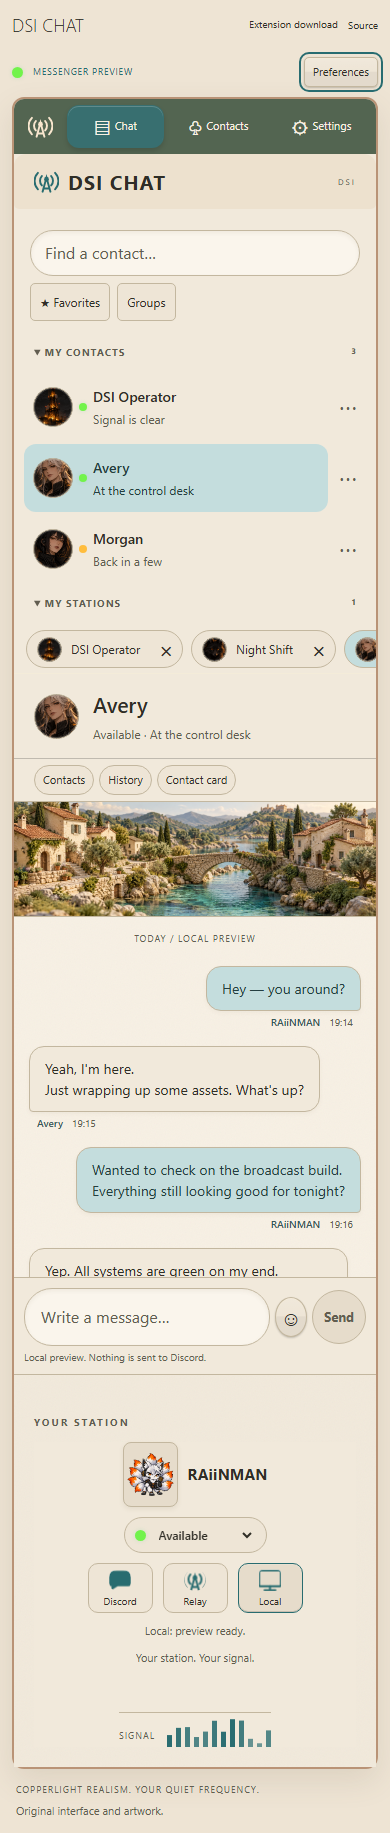
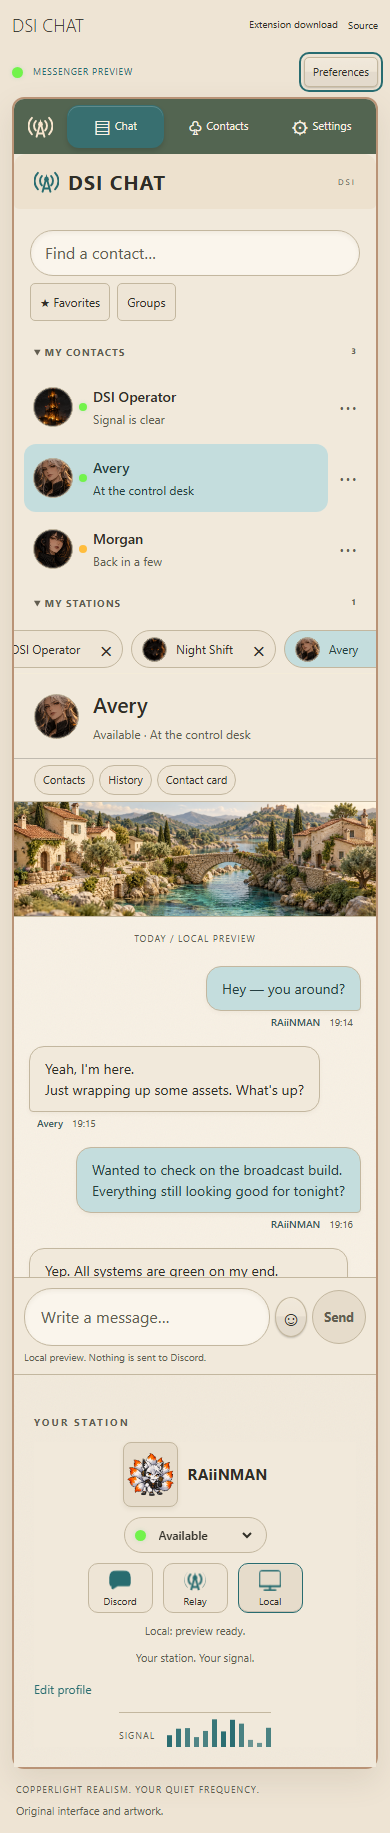
Keep active conversation visible when Copperlight workspace resizes

diff --git a/site/index.html b/site/index.html
@@ -3,7 +3,7 @@
 <body>
 <header class="desktop-bar"><a class="brand" href="./">DSI <b>CHAT</b></a><span>DEAD SIGNAL INTERACTIVE</span><nav><a href="downloads/dsi-chat-original-chromium.zip" download>Extension download</a><a href="https://github.com/raiinman/DSI-CHAT/tree/codex/dsi-original">Source</a></nav></header>
 <main class="desktop"><div class="workspace-note"><span class="orb on"></span> MESSENGER PREVIEW <span>Sample contacts. Messages stay in this tab.</span><button id="preferences-open" type="button">Preferences</button></div>
-<div class="windows"><nav class="workspace-rail" aria-label="Workspace navigation"><span class="station-mark" aria-hidden="true"></span><button id="nav-chat" type="button"><span aria-hidden="true">▤</span>Chat</button><button id="nav-contacts" type="button"><span aria-hidden="true">♧</span>Contacts</button><button id="nav-settings" type="button"><span aria-hidden="true">⚙</span>Settings</button><span class="rail-caption">YOUR<br>QUIET<br>FREQUENCY</span></nav>
+<div class="windows"><nav class="workspace-rail" aria-label="Workspace navigation"><span class="station-mark" aria-hidden="true"></span><button id="nav-chat" type="button"><span aria-hidden="true">▤</span>Chat</button><button id="nav-contacts" type="button"><span aria-hidden="true">♧</span>Contacts</button><button id="nav-settings" type="button"><span aria-hidden="true">⚙</span>Settings</button><span class="rail-caption">YOUR<br>QUIET<br>SIGNAL</span></nav>
 <section class="buddy-window window" aria-label="Contact list"><div class="titlebar"><span class="station-mark" aria-hidden="true"></span><h1>DSI CHAT</h1><small>DSI</small></div>
 <div class="buddy-tools"><label><span class="sr-only">Find a contact</span><input id="contact-search" type="search" placeholder="Find a contact…"></label><div class="contact-list-tools"><button id="favorites-only" type="button" aria-pressed="false">★ Favorites</button><button id="groups-open" type="button">Groups</button><span id="contact-results" role="status"></span></div></div>
 <div class="contact-scroll"><div id="contacts"></div><div id="empty-search" class="contact-empty" hidden><img src="assets/quiet-receiver.png" alt="" width="96" height="96"><strong id="empty-search-title"></strong><p id="empty-search-note"></p><button id="clear-contact-filters" type="button">Clear search and filters</button></div></div><p id="contact-book-status" class="sr-only" role="status"></p>

diff --git a/docs/STATE.md b/docs/STATE.md
@@ -53,3 +53,5 @@ Contact organization published successfully in Pages run 37112540971 (https://gi
 October 3 DOX installation: integrated the documentation framework from raiinman/dox revision 765ae4ac02cc884eefcd41a3d0f71941721adb89 into the existing root AGENTS.md while preserving DSI instructions. Initialized 11 indexed root/child AGENTS.md files covering runtime, Chromium package, messenger/assets, tooling, tests, catalog, docs/design and GitHub workflows. Preserved Agent Zero copyright and MIT terms in docs/DOX_LICENSE.txt, with attribution in root guidance, NOTICE.md and PROVENANCE.md. Handoff now requires DOX traversal and closeout updates. Site preparation excludes development AGENTS.md files from published output. All 16 tests, catalog generation/consistency, extension build, site preparation, hierarchy/link/section/contract checks, packaging exclusion and git diff --check passed locally. Architecture, UI roadmap, visual specification and usability records were intentionally unchanged because this installation adds documentation governance without changing messenger behavior, appearance or platform scope. Conversation controls remain the next slice.
 
 October 3 Copperlight Realism redesign: user explicitly replaced orange glass and approved the generated copperlight-concept.png. Implemented cream/terracotta/sage/turquoise Afternoon, sage Night and flat High contrast with original ImageGen valley banner, functional navigation rail, selected-contact/station sidebar, message bubbles and responsive layouts. Existing contacts, mascot, local messaging/drafts, groups/favorites, profile, archive/export, themes and motion behavior are retained. New visitors/reset use Afternoon; saved valid theme choices persist. Sixteen unit tests, catalog/build/site preparation, diff checks and local Chromium QA passed. QA now covers navigation/sidebar actions, actual-opener modal focus, default theme and synchronized sidebar. Local screenshot inspection covered 1440x844, Afternoon/Night/High contrast, 390/768 and dialogs; corrected old gloss remnants and signal-label clipping. Retained representative Copperlight captures in docs/design. GitHub review-only validation/publication pending. No live account or physical phone validation.
+
+Copperlight first review-only run 37114770012 passed. GitHub screenshot review caught selected-tab clipping after resizing from desktop to phone; the tab strip now observes its own resize and reveals the active conversation. Shortened the narrow rail caption to prevent overflow. Re-ran sixteen tests, catalog/build/site, local browser QA and diff checks successfully. QA checks the selected tab fits after resize. Final GitHub review remains pending.

diff --git a/docs/USABILITY.md b/docs/USABILITY.md
@@ -29,3 +29,5 @@ Concept-fidelity revision: composer field/emoji/Send now share a compact row, se
 Workspace expansion: History opens a searchable archive with an explicit local text export and empty results state. Contact cards expose sample presence and connection status, with Write a message returning focus to the composer. Edit profile changes the saved local display name and station note; existing message authors are preserved. The emoji picker inserts at the current selection and preserves the draft. Viewport-sized desktop windows keep the composer visible and scroll contacts/messages internally. All added surfaces use native dialog Escape/focus behavior and full themes. No remote connection, login, calls or file-transfer controls are implied by these additions.
 
 Contact organization adds a Favorites filter, per-row labeled actions, favorite/group editing and a local group manager with create/rename/remove. Search also matches status notes and group names, with result counts and a clear-search/filter action. Empty favorites and search results provide distinct guidance, with a small decorative receiver illustration. New native modals use theme tokens and explicit focus return. Removing a custom group preserves its contacts, favorites, conversations and drafts. Appearance reset does not reset contact organization.
+
+Copperlight screenshot review corrected the selected-tab position on viewport resize: the strip keeps the current conversation in view as its available width changes.

diff --git a/site/AGENTS.md b/site/AGENTS.md
@@ -27,3 +27,5 @@ Run npm test, catalog/build/site preparation and node scripts/browser-qa.mjs fro
 
 ## Child DOX Index
 - [assets/AGENTS.md](assets/AGENTS.md): original shipped artwork and service icons.
+
+The active conversation tab must stay visible when the tab strip resizes, including desktop-to-phone changes.
